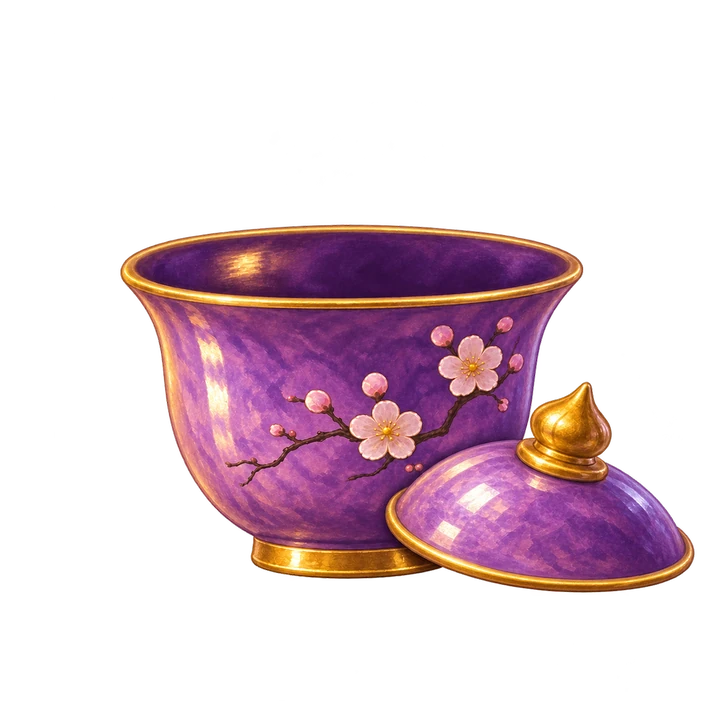
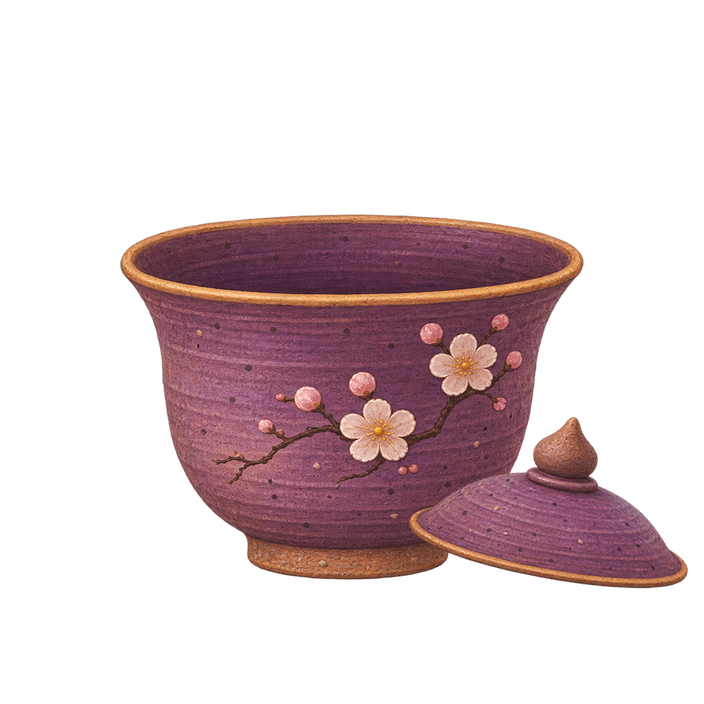
feat: update Cup Echo stoneware and aged paper art

Changed region(s): [[0.1562, 0.2812, 1.0, 0.8438]]

diff --git a/src/client/EchoBoard.tsx b/src/client/EchoBoard.tsx
@@ -120,10 +120,9 @@ function EchoLayout({ G, info, live, children }: { G: EchoState; info: RoomInfo;
         <ul className="echo-cups">{ids.map(id => {
           const sealed = G.status === 'writing' && G.players[id].sealed;
           const word = revealed?.words[id];
-          const size = sealed ? 640 : 704;
           return <li key={id} data-sealed={sealed || !!word}>
-            <span className="echo-cup-art" data-closed={sealed}>
-              <img src={sealed ? sealedCup : openCup} alt="" width={size} height={size} />
+            <span className="echo-cup-art">
+              <img src={sealed ? sealedCup : openCup} alt="" width={704} height={704} />
             </span>
             <span>{playerName(info, id)}</span>
             <strong>{revealed ? word ?? '未作答' : sealed ? '已封詞' : '待封詞'}</strong>

diff --git a/src/client/echo.css b/src/client/echo.css
@@ -16,8 +16,6 @@
 .echo-cups li { position: relative; display: grid; align-content: start; justify-items: center; min-width: 0; gap: 4px; text-align: center; padding: 12px 6px; border: 1px solid var(--theme-border); border-radius: 12px; background: var(--theme-panel); overflow-wrap: anywhere; }
 .echo-cup-art { display: grid; place-items: center; width: min(100%, 150px); aspect-ratio: 1; }
 .echo-cup-art img { display: block; width: 100%; height: auto; }
-/* The 640 px closed sprite fits inside the centered 704 px open sprite canvas. */
-.echo-cup-art[data-closed="true"] img { width: calc(100% * 640 / 704); }
 .echo-cups li[data-sealed="true"] { border-color: #bb925f; }
 .echo-cups li[data-sealed="true"] strong, [data-matched="true"] .echo-clues h2 { color: #edbd7e; }
 .echo-progress { margin: 14px 0 0; text-align: center; }

diff --git a/src/client/echo-poster.ts b/src/client/echo-poster.ts
@@ -3,7 +3,7 @@ import type { PosterOptions } from './game-types';
 import tavernArt from './assets/art/cup-echo-tavern.webp';
 import endlessBarLogo from './assets/endlessbar-logo-transparent.png';
 import openCup from './assets/echo/open-cup.webp';
-import wordSlip from './assets/echo/word-slip.webp';
+import wordSlip from './assets/echo/word-slip-aged.webp';
 
 function clean(value: unknown, limit: number) {
   if (typeof value !== 'string') return '';

diff --git a/src/client/assets/art/README.md b/src/client/assets/art/README.md
@@ -29,24 +29,24 @@
 
 ### 杯中回聲封詞杯
 
-`echo/open-cup.webp` 是待封詞及揭曉時使用的開蓋插畫。以內建 ImageGen 參照開口杯身與原闔蓋插畫，將原杯蓋放在杯子的右前方。開蓋圖輸出為 704 × 704 透明 WebP，杯口與杯腳對齊置中於同一畫布的 640 × 640 闔蓋圖。
+`echo/open-cup.webp` 與 `echo/sealed-cup.webp` 是 704 × 704 的透明 WebP。用內建 ImageGen 同時生成分離的陶杯與杯蓋，兩張圖共用同一張杯身及相同座標。開蓋時杯蓋在右前方，闔蓋時放在杯口。杯腳中心維持於 (351.5, 578)，供逐輪詞鏈圖對齊桌面波紋。
 
 ```text
-Make a transparent square alternate sprite of this exact purple gold-trimmed plum blossom porcelain tea bowl. Reference image 1 is the lidless bowl, and reference image 2 shows the matching lid and bowl. Keep the bowl upright, full and centered with its dark violet open elliptical rim entirely visible and its gold foot aligned to the same baseline as reference image 1. Put the lid in the FOREGROUND on the LOWER RIGHT, propped up on its outer rim beside the bowl's foot. It leans against the outside of the lower right wall, with its front edge visibly OVERLAPPING the lower right of the painted cup. All parts of the lid are in front of the cup and the entire lid outline including the gold finial is visible; the cup cannot overlap any part of the lid. Position the lid fully below the cup mouth, right at table level, with its purple dome and gold finial seen in three-quarter view pointing slightly up and toward the viewer. The contact point of the tilted lid is at the same baseline as the cup foot. Approximate target layout on the square: bowl body x 14–81%, y 30–85%; foreground lid x 62–96%, y 52–85%. Keep upper third mostly clear. Match violet glaze, plum blossoms, gold, and painted gouache illustration with warm reflections. Exactly one bowl and one lid, no saucer, no shadow, no backdrop, no tabletop surface, no lettering, no smoke. Genuine transparent alpha surrounding both objects. Composition must read clearly at a small 100-pixel thumbnail.
-```
-
-以內建 `image_gen` 參考舊卡圖重製，輸出 640 × 640 的透明 WebP，供實戰卡面與圖鑑共用。
-
-```text
-Use case: background-extraction. Regenerate the sealed-word cup prop asset for 《杯中回聲》 as a clean standalone painted cutout, using the supplied card as design reference. Preserve the cup's distinctive low purple glazed ceramic, delicate plum blossom decoration, gold lip and small gold finial on its fitted lid, and the warm amber rim light. Keep the entire cup and lid clearly centered in a square, occupying about 80% of the width with generous transparent padding and a clean antialiased silhouette. Remove the coaster as well as the candle, curtains, window, floor, table, distant scenery, cast shadow, and any atmospheric glow outside the object. The surroundings must be genuine transparent alpha on all sides, not a drawn checkerboard, no gradient or flat backdrop. No card frame, letters, logos, text or watermark. Refined gouache-style hand-painted fantasy tabletop object, readable at thumbnail scale.
+Create a new production sprite sheet for Cup Echo using the two pictured old cup variants as design references. Change material decisively from glossy porcelain and shiny metal to rustic handmade kiln-fired stoneware: matte dusty plum-violet clay, visible fine clay grog, horizontal throwing rings, irregular dark speckles, brown terracotta showing through at the unglazed foot, soft diffuse amber light. Retain the recognizable flared handleless bowl profile, pale hand-painted plum blossom twig, and a restrained ochre slip line as a matte rim accent. Crucial layout: exactly TWO separate objects in ONE wide transparent image, side by side, with a broad vertical completely transparent gutter through the center, no overlap. Left half: one upright OPEN bowl with no lid, fully visible oval mouth and foot, same front view as references. Right half: one detached matching convex lid by itself with small blunt teardrop clay knob, seen at the SAME camera angle, with a broad horizontal elliptical lip as if ready to fit atop the bowl. No other cup and no assembled variant. Both objects completely within their respective halves with generous transparent margins. Preserve the warm hand-painted fantasy board game art style. No ground, shadow outside objects, text, background, saucer, reflective glaze, gold metal, or props. True transparent alpha.
 ```
 
 ### 杯中回聲詞鏈紙條
 
-`echo/word-slip.webp` 由內建 ImageGen 生成，轉為 1086 × 362 的透明 WebP。PNG 詞鏈圖會把公開詞語排在紙條上，相遇輪次另加金色星記。
+`echo/word-slip.webp` 是原版透明梅花紙條，由內建 ImageGen 生成，轉為 1086 × 362 的 WebP。
 
 ```text
 Use case: stylized-concept. Generate a single standalone blank horizontal handwritten-note paper slip asset for the Taiwanese fantasy tavern game Cup Echo (杯中回聲). Direct overhead view, almost rectangular and very flat, roughly 3:1 width-to-height, gently uneven hand-torn deckle edges, no curls or rolled ends. Muted warm antique wheat and light honey paper, softly lit by amber lantern light, subtle fine mulberry fibers in hand-painted gouache. A little delicate pale plum blossom watermark confined to a far corner. Center 85% calm, matte, consistently medium-light and fully opaque so dark runtime Chinese text will be readable. Whole uninterrupted paper silhouette, centered in a wide canvas, with true transparent alpha and a modest empty margin on all four sides. One slip only. No lettering, symbols, lines, printed borders, stamp, background, scene, table, props or cast shadow.
+```
+
+`echo/word-slip-aged.webp` 是逐輪詞鏈 PNG 使用的微作舊版本。紙邊有少量自然缺口、外露纖維和淡褐色磨痕，保留右上角梅花與中央題字區。
+
+```text
+Refine the ORIGINAL flat honey-colored Cup Echo mulberry paper slip in the supplied reference. Keep its exact broad horizontal 3:1 composition, quiet honey-toned writing surface, faint upper-right plum blossoms, near-straight overall silhouette, and thin flat paper. The desired effect is elegant, lightly timeworn handmade paper from a well-kept East Asian tavern. The silhouette should stay quite close to the reference, with subtle naturally feathered edges and just 3 tiny, asymmetrically placed chipped nicks the size of a grain of rice. Place one small angular flake near the upper left quarter, one small fine nick near the lower right quarter, and a very shallow loss on the right edge. Each indentation less than 2% of paper height; preserve every corner and a clean intact rectangular reading area. Very delicate short fibers visible on some sections, natural unevenness along the edges, slight warm aging near edges, no large bites, no undulating valleys, no fuzzy fringe, no rounded corners with heavy shadows, no burned edge, no stains, no heavy distress, no text or curl. Photorealistically believable paper fibers within the original soft illustration style. The full sheet has genuine transparent alpha around it, with empty safe margins and no exterior glow.
 ```
 
 ## 太空維修站生成提示
